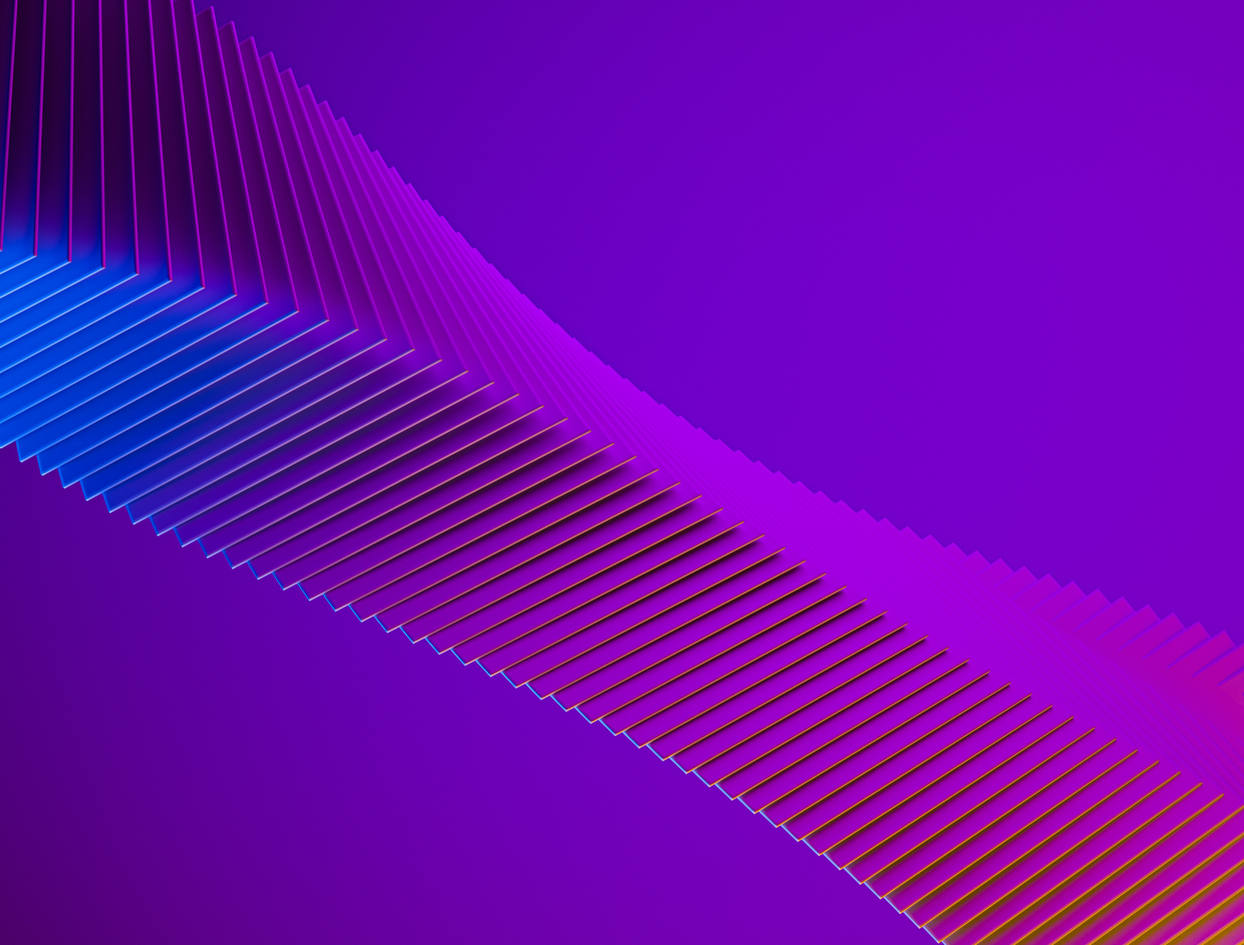
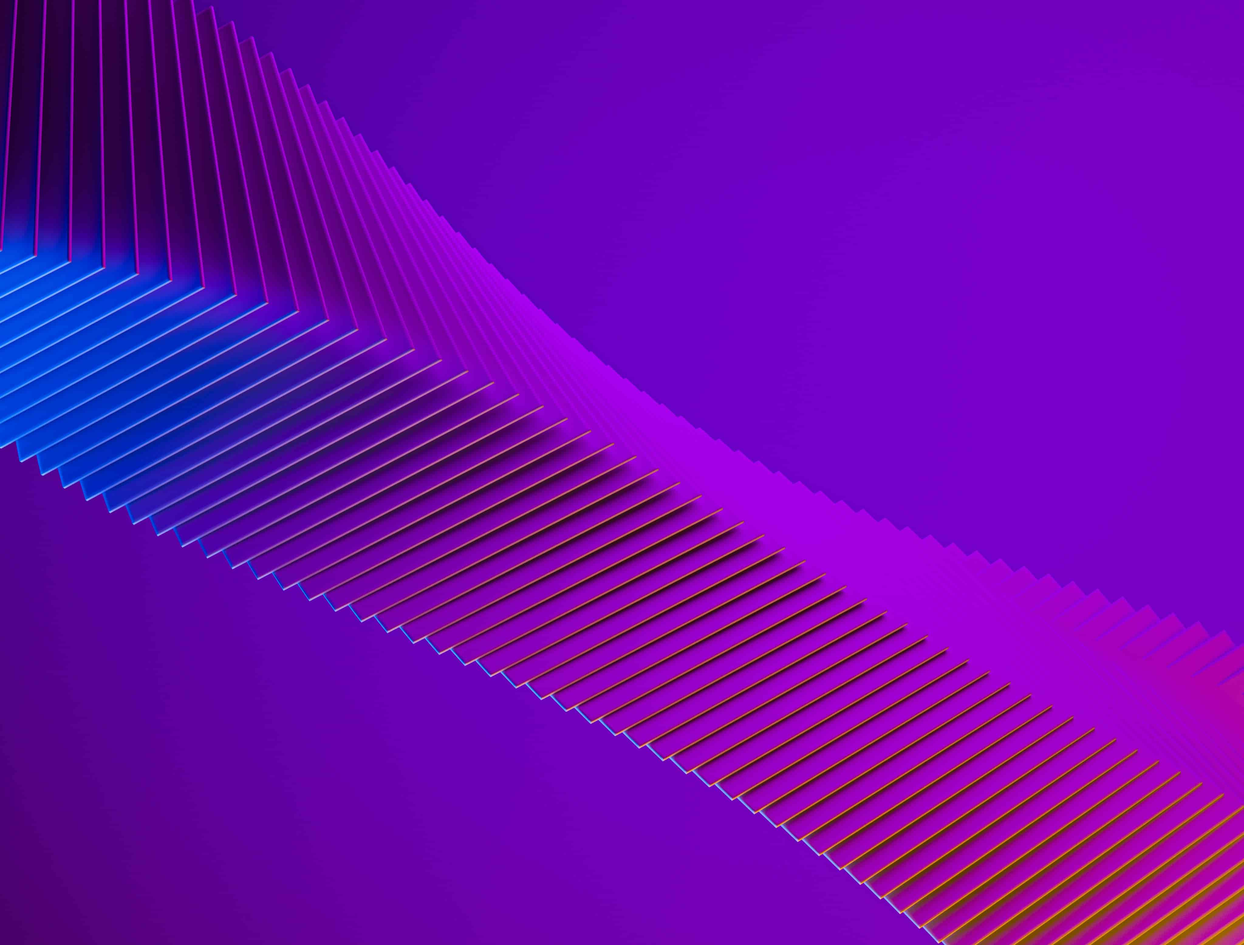
Updated images to be smaller

diff --git a/src/app/research/page.tsx b/src/app/research/page.tsx
@@ -4,7 +4,7 @@ import giza from "@/images/giza.jpg";
 import about from "@/images/about-banner.jpg";
 import china from "@/images/wall-of-china.jpg";
 import stacity from "@/images/stacity.png";
-import recommender from "@/images/recommender.png";
+import recommender from "@/images/recommender.jpg";
 import organisation from "@/images/position-preserving-intervention-1.png";
 import error from "@/images/digital-error-correction.jpg";
 import Head from "next/head";

diff --git a/src/app/theory-of-change/page.tsx b/src/app/theory-of-change/page.tsx
@@ -1,6 +1,6 @@
 import React from "react";
 import Image from "next/image";
-import theoryOfChangeImage from "@/images/theory-of-change.png";
+import theoryOfChangeImage from "@/images/theory-of-change.jpg";
 import sphereOfControlImage from "@/images/sphere-of-control.png";
 import sphereOfInfluenceImage from "@/images/sphere-of-influence.png";
 import sphereOfInterestImage from "@/images/sphere-of-interest.png";

diff --git a/src/app/team/page.tsx b/src/app/team/page.tsx
@@ -1,5 +1,5 @@
 import Image from "next/image";
-import alfieImage from "@/images/alfie.png";
+import alfieImage from "@/images/alfie.jpg";
 import adamImage from "@/images/adam.webp";
 import teamBanner from "@/images/team-banner.jpg";
 import Head from "next/head";
